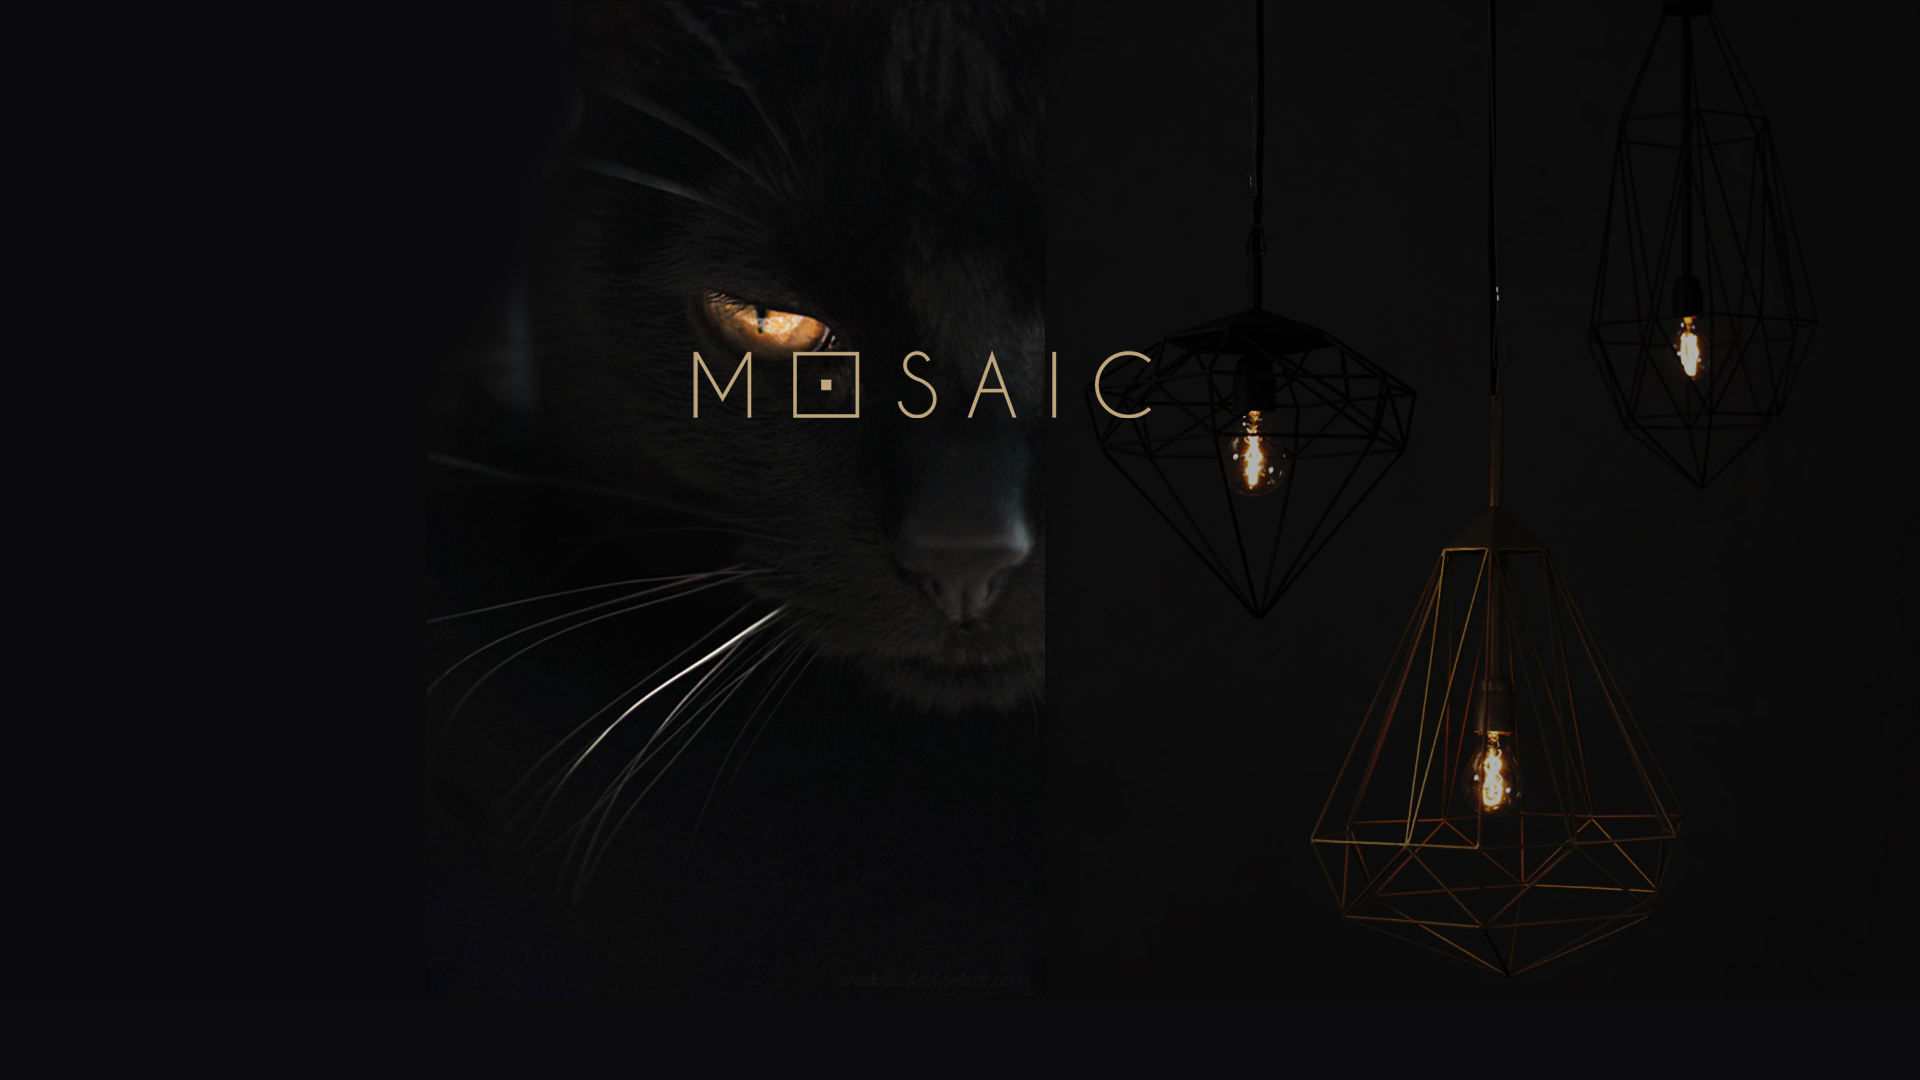
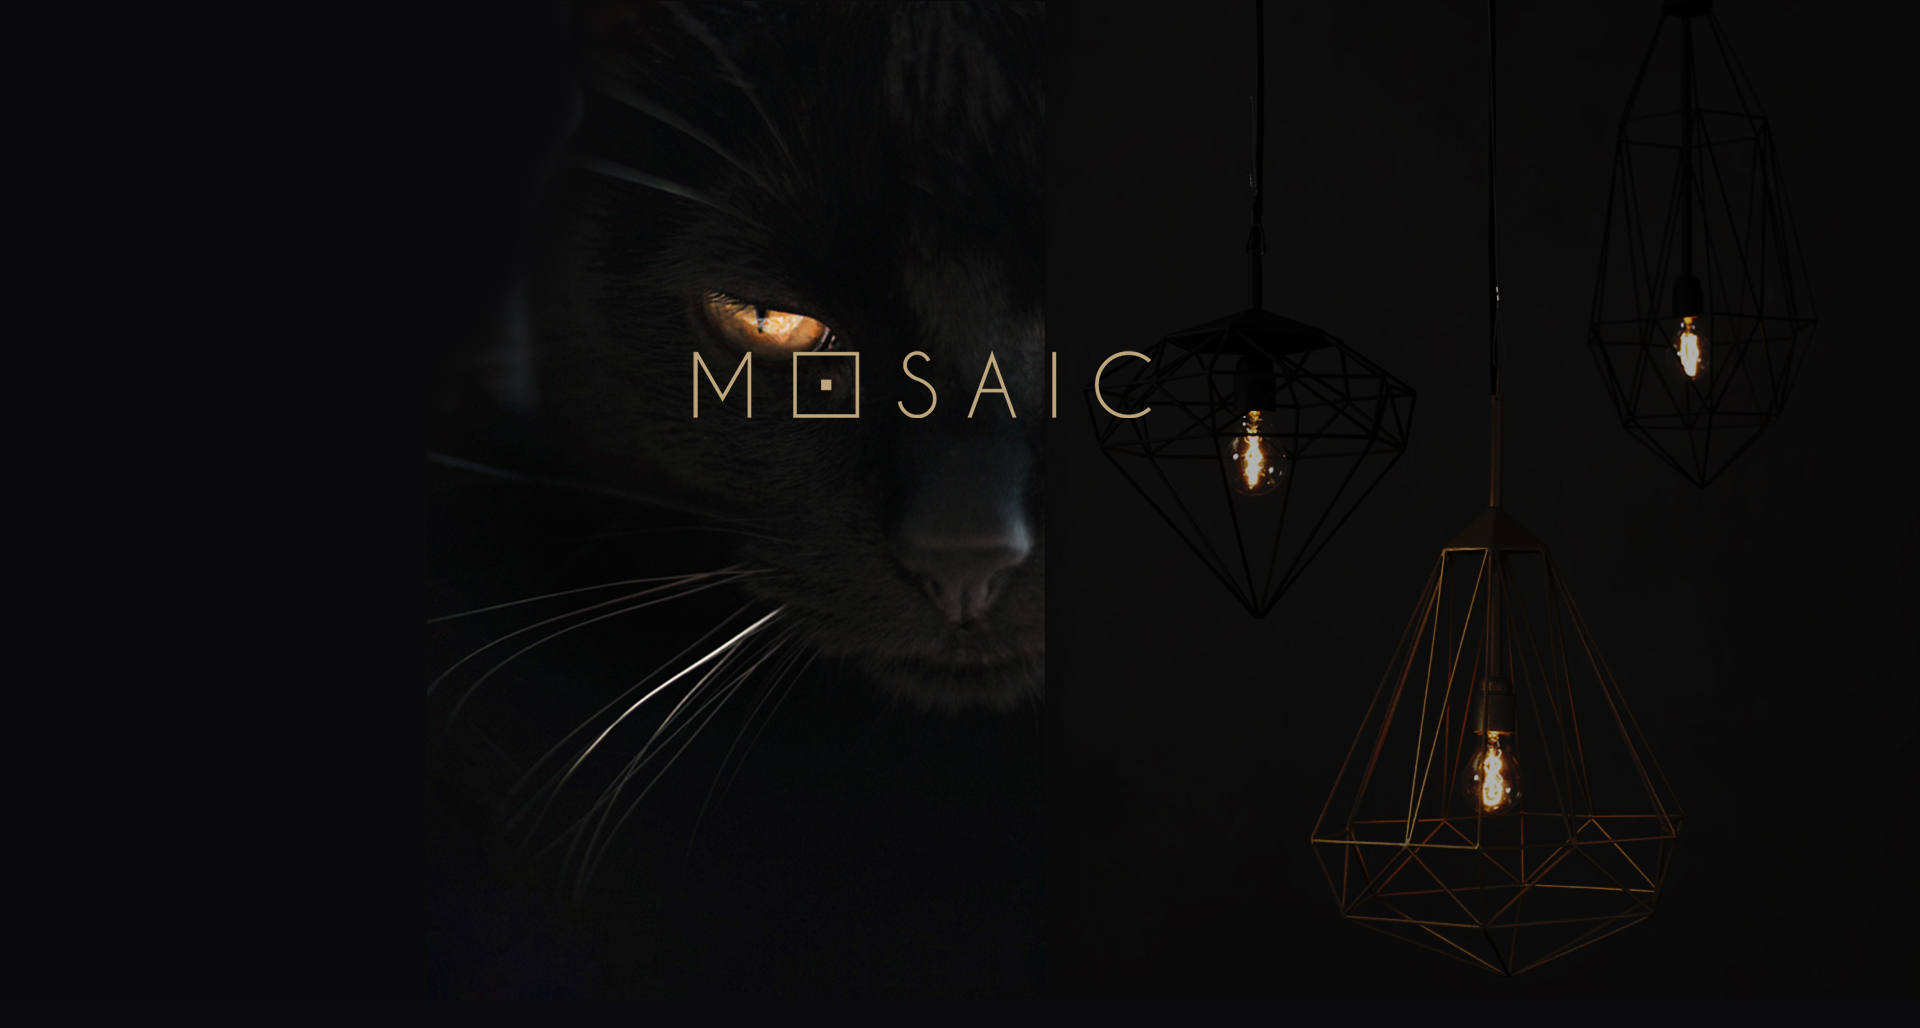
updating home page

diff --git a/IAT 339 Company/mosic/index.html b/IAT 339 Company/mosic/index.html
@@ -450,11 +450,14 @@
 
 
 <div class="body_context">
-	 <img class="main_img" src="img/mosaic.jpg" alt="cat">
 
-	 <div class="index_text_box">
-		<p>Minimal is the new luxury. Mosaic collaborates with the most prestigious designers around the world to make unique pieces that are not only exceeding in appeals, but also easy to use in everyday life.
-		</p>
+	<div class="title_context">
+		<img class="main_img" src="img/mosaic.jpg" alt="cat">
+		<div class="index_text_box">
+			<p>Minimal is the new luxury. Mosaic collaborates with the most prestigious designers around the world to make unique pieces that are not only exceeding in appeals, but also easy to use in everyday life.
+			</p>
+		</div>
+		<a class="button-more" href="contact.html">Learn More</a>
 	</div>
 
 	<div class="index_content">
@@ -465,12 +468,20 @@
 				<!-- 1x1 grid -->
 			    <li class="rig_size1">
 			        <a class="rig-cell" href="product_detail.html">
-			            <img class="rig-img" src="img/test2.jpg" alt="product_list">
+			            <img class="rig-img" src="img/_Index_About.jpg" alt="product_list">
 			            <span class="rig-overlay"></span>
 			            <span class="rig-text">Eclipse Lamp<span class="rig-text_content">New Avoa series has arrived click to see more</span></span>
 			        </a>
 			    </li>
 
+				<!-- 1x1 grid -->
+			    <li class="rig_size1">
+			        <a class="rig-cell" href="product_detail.html">
+			            <img class="rig-img" src="img/_Index_Shop.jpg" alt="product_list">
+			            <span class="rig-overlay"></span>
+			            <span class="rig-text">Eclipse Lamp<span class="rig-text_content">New Avoa series has arrived click to see more</span></span>
+			        </a>
+			    </li>
 
 			    <!-- 1x2 grid -->
 			    <li>

diff --git a/IAT 339 Company/mosic/css/main.css b/IAT 339 Company/mosic/css/main.css
@@ -92,6 +92,28 @@ h1.ultra_text {
 
 /*--------------------button style-------*/
 
+.button-more {
+  display: inline-block;
+  padding: 0.8em 2.8em; /*Clears an area around the content.*/
+  margin: 2em 1em 0em 0em; /*Clears an area outside the border.*/
+  color: #bea67c;
+  border: 2px solid #bea67c;
+  border-radius: 0em;
+  font-size: 0.8em;
+  text-decoration: none;
+  text-transform: uppercase;
+  font-weight: 400;
+  letter-spacing: .2em;
+  -webkit-transition: background-color 0.2s ease-out;
+  transition: background-color 0.2s ease-out;
+}
+
+.button-more:hover {
+  color: #0b0b0d;
+  background-color: #bea67c;
+  border: 2px solid #bea67c;
+}
+
 .button-add, form input[type=submit] {
   display: inline-block;
   padding: 0.8em 2.8em; /*Clears an area around the content.*/
